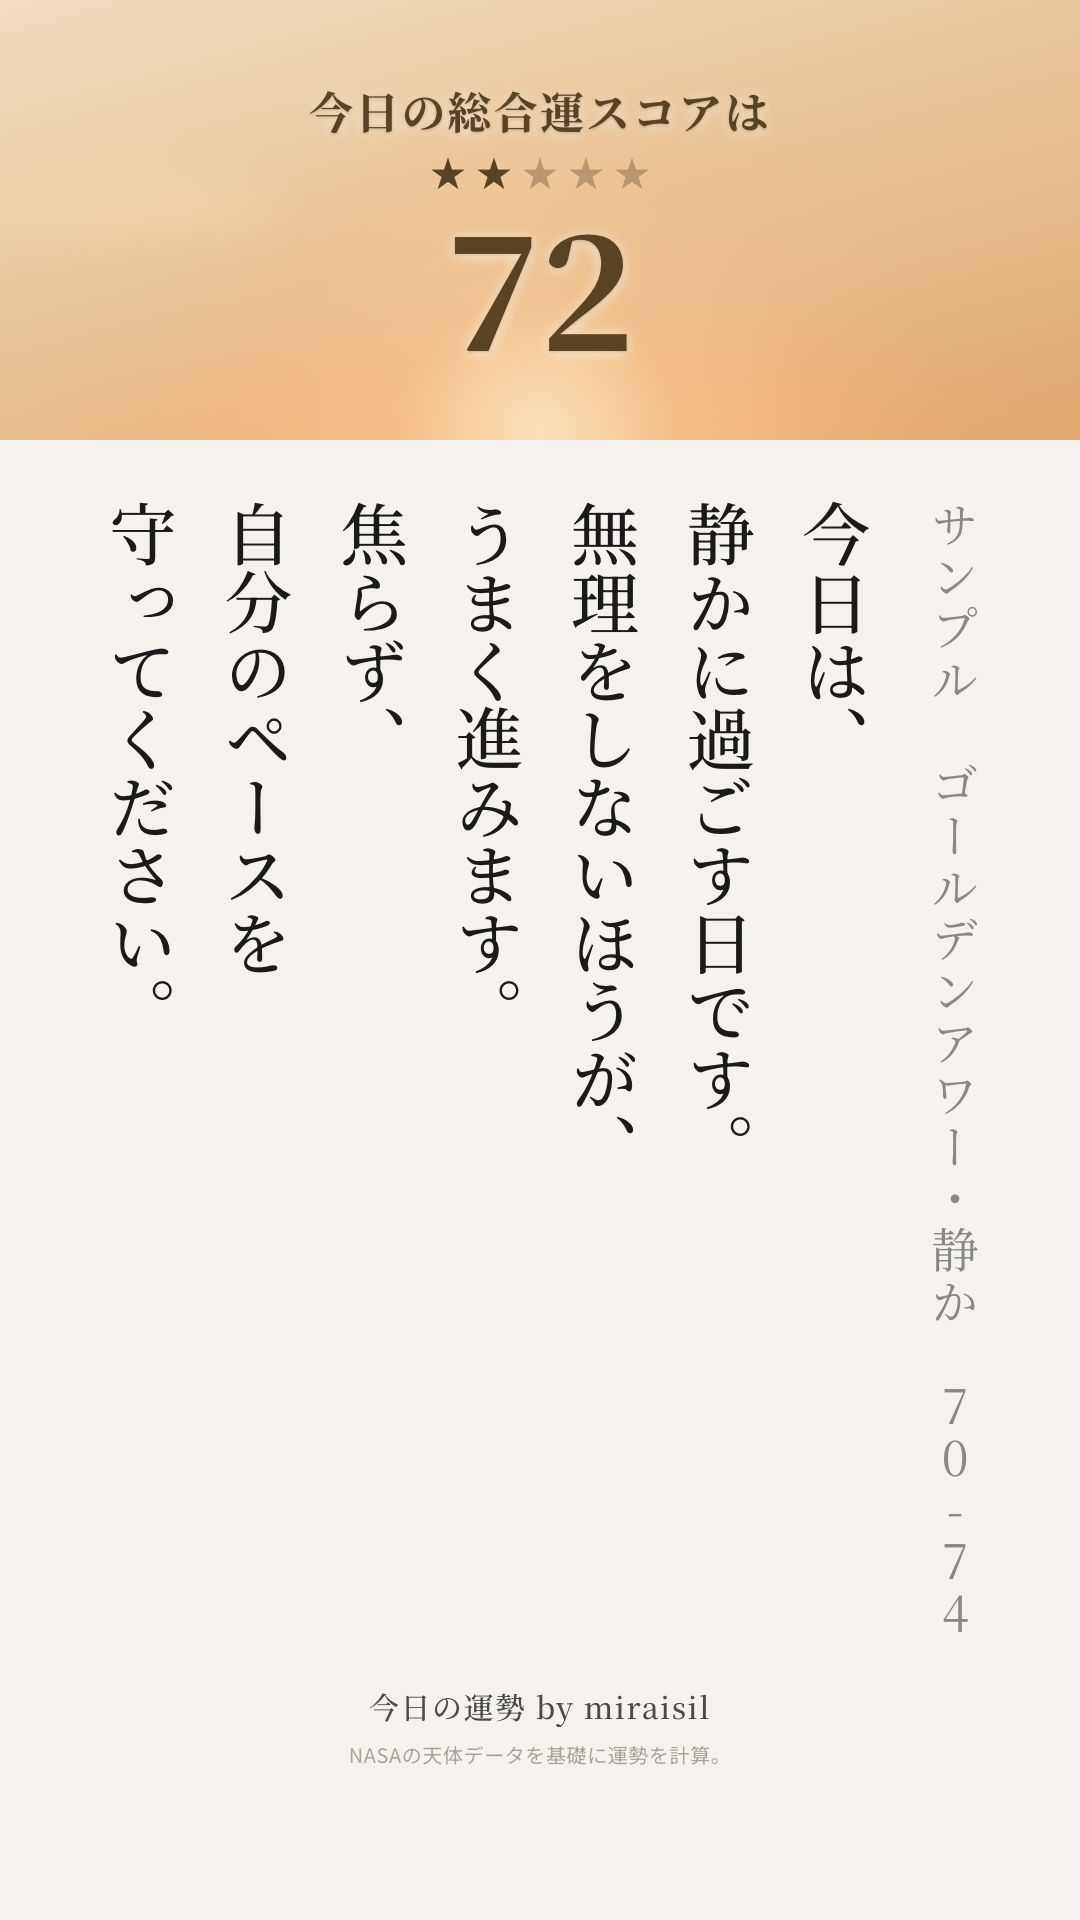
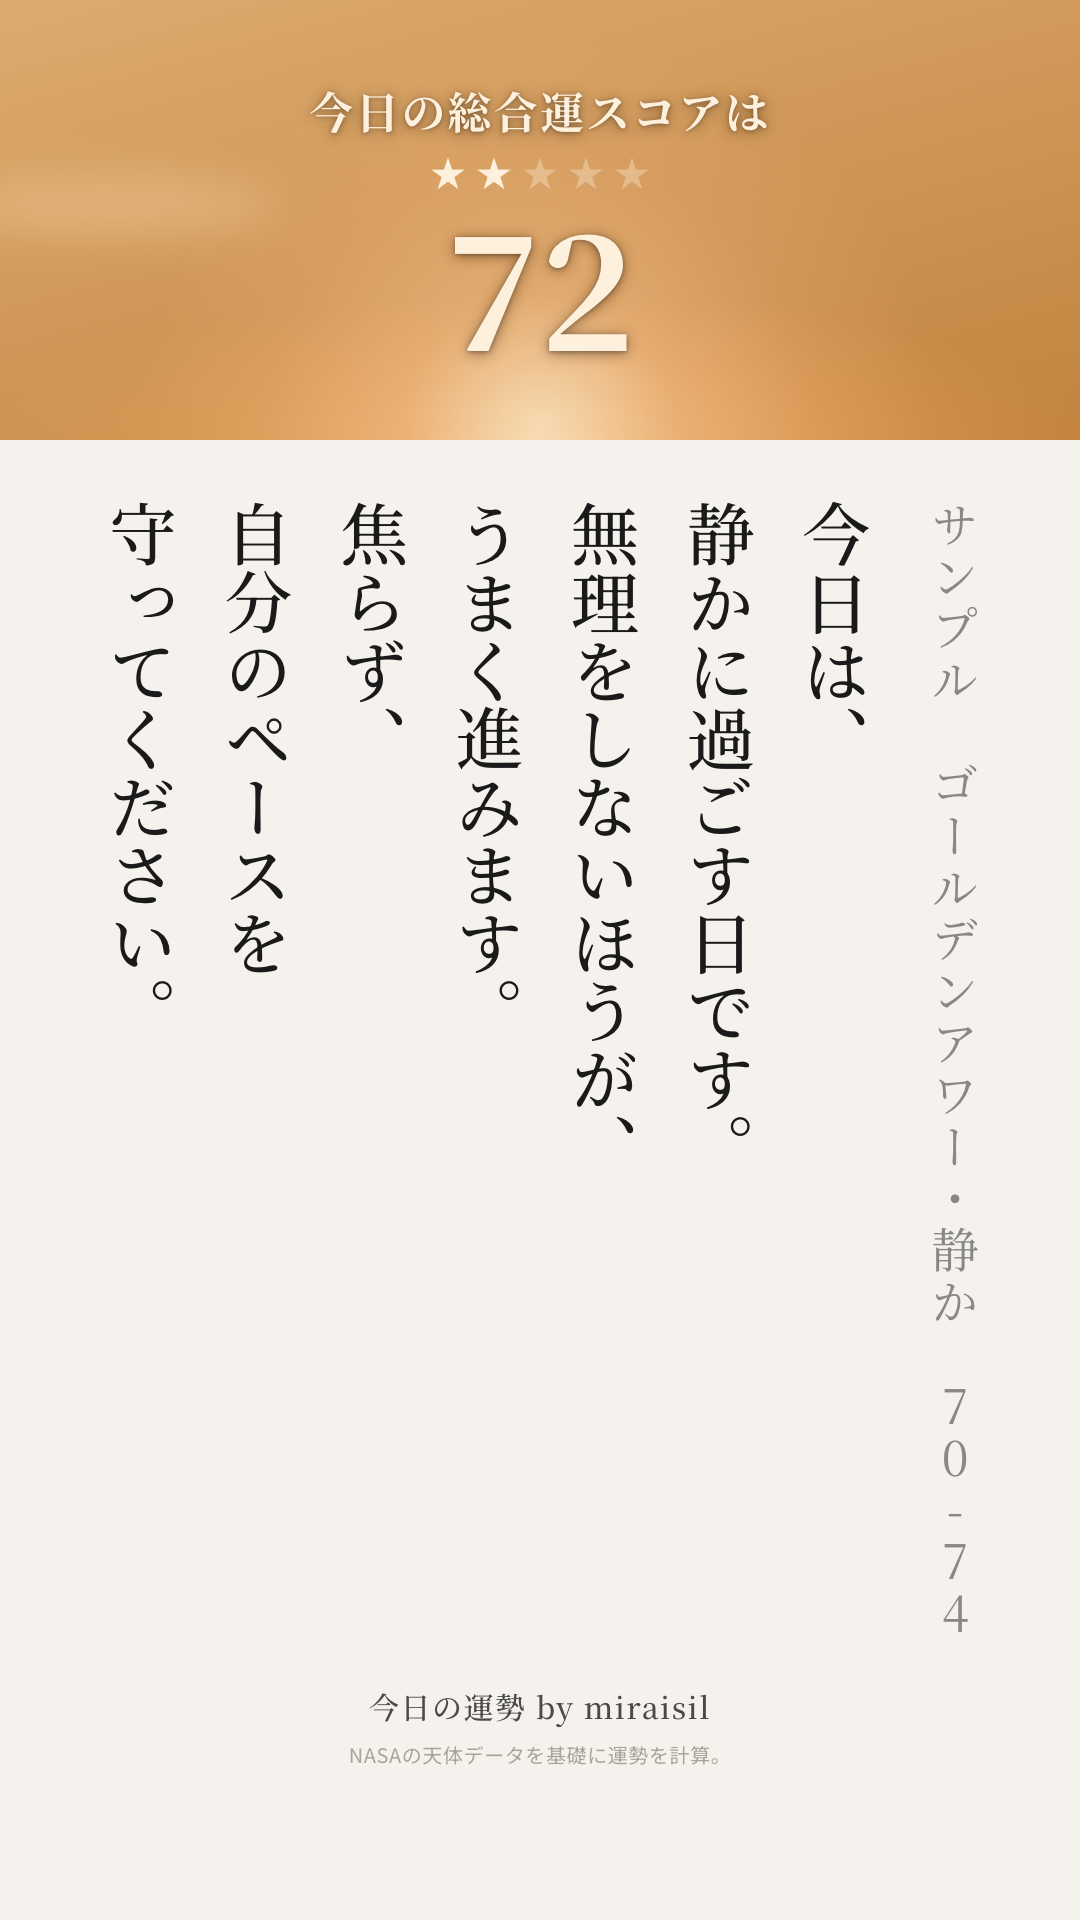
widen score-band contrast: deepen bottom tiers while staying warm-only
Widened the 96->66 range for more distinguishable mid tiers per exact
hex targets. Bottom two tiers (70-74, 65-69) got a light cream text
color since their backgrounds are now noticeably darker.

Changed region(s): [[0.0, 0.0, 1.0, 0.25]]

diff --git a/sky-test/index.html b/sky-test/index.html
@@ -35,27 +35,30 @@
 （65-69）は廃止し、"静かな夕暮れ・残照"に置き換えた。
 </div>
 
-<h2>85のくすみ修正＋全7段階の確認</h2>
+<h2>コントラスト拡張版（96→66の振れ幅を拡大）</h2>
 <div class="note">
-指摘: 85(うすもや)が灰みがかったベージュで、96(金)と77(黄金)の間で浮いて見えていた。
-→ 85-89を #fdf3e0→#f2dcae（灰色成分を抜いた明るい金クリーム）に差し替え。<br>
-併せて全7段階の色をR-B値（暖色度の簡易指標）でチェックしたところ、85を直した結果、
-今度は80-84が両隣（85-89・75-79）より暖色度が低い"谷"になっていることを発見したため、
-80-84 も #f8ebd2→#eac48e に調整し、96→66まで谷なく単調に暖色化するようにした。
+方針: 上下の振れ幅を広げて中間段階を見分けやすくする。上端(95-100)は最も明るい金のまま、
+下端(65-69 残照)を「暖色のまま深く」沈め、96→66を金→琥珀→深い赤茶へ一直線に。
+黒・灰・紫・寒色は一切混ぜず、以前ボツにした「黒い夜空」にも戻していません。<br>
+特に70-74・65-69は背景が明確に暗くなったため、文字色を従来の濃茶(#5a4222)から
+淡い生成り(#fdf0dc)に切り替え、濃い帯の上でも可読性を確保しています
+（95-100〜75-79の4段は従来通り濃茶文字のまま）。<br>
+R-B値（暖色度の簡易指標）でも96→66まで谷なく単調に増加することを確認済みです。
 </div>
 <div class="row">
-  <figure><img src="band_96.png"><figcaption>96点 白熱 95-100 ★5</figcaption></figure>
-  <figure><img src="band_92.png"><figcaption>92点 好天 90-94 ★4</figcaption></figure>
-  <figure><img src="band_85.png"><figcaption>85点 うすもや 85-89 ★3<br>（今回修正）</figcaption></figure>
-  <figure><img src="band_82.png"><figcaption>82点 もや濃い 80-84 ★3<br>（今回追加修正）</figcaption></figure>
-  <figure><img src="band_77.png"><figcaption>77点 ゴールデンアワー 75-79 ★2</figcaption></figure>
-  <figure><img src="band_72.png"><figcaption>72点 ゴールデンアワー・静か 70-74 ★2</figcaption></figure>
-  <figure><img src="band_66.png"><figcaption>66点 残照 65-69 ★1</figcaption></figure>
+  <figure><img src="band_96.png"><figcaption>96点 白熱 95-100 ★5<br>（変更なし）</figcaption></figure>
+  <figure><img src="band_92.png"><figcaption>92点 好天 90-94 ★4<br>#fef4de→#f8d59e</figcaption></figure>
+  <figure><img src="band_85.png"><figcaption>85点 うすもや 85-89 ★3<br>#fbecd2→#f0cd88</figcaption></figure>
+  <figure><img src="band_82.png"><figcaption>82点 もや濃い 80-84 ★3<br>#f3ddb4→#e6b877</figcaption></figure>
+  <figure><img src="band_77.png"><figcaption>77点 ゴールデンアワー 75-79 ★2<br>#ecca92→#d99f63</figcaption></figure>
+  <figure><img src="band_72.png"><figcaption>72点 ゴールデンアワー・静か 70-74 ★2<br>#dcab6e→#c2833f（一段深く／文字は生成りに）</figcaption></figure>
+  <figure><img src="band_66.png"><figcaption>66点 残照 65-69 ★1<br>#c2884e→#9c5f2a（深い赤茶／文字は生成りに）</figcaption></figure>
 </div>
 <div class="note">
-7段階を横に並べた状態で、96→66まで金→琥珀へ地続きに暗くなっていくか（途中でくすんだ
-灰・ベージュに落ちる帯が無いか）を確認してください。背景グラデーションはすべて
-暖色（オレンジ〜ゴールド系）で統一し、寒色・紫・黒は使用していません。
+7段階を横に並べた状態で、96→66の振れ幅が広がり、隣どうし（特に85/82/77/72）が
+前より見分けやすくなっているか、かつ どの段も暖色で、くすみ・黒・紫が無いかを
+確認してください。背景グラデーションはすべて暖色（オレンジ〜ゴールド〜赤茶系）で
+統一しています。
 </div>
 </body>
 </html>
